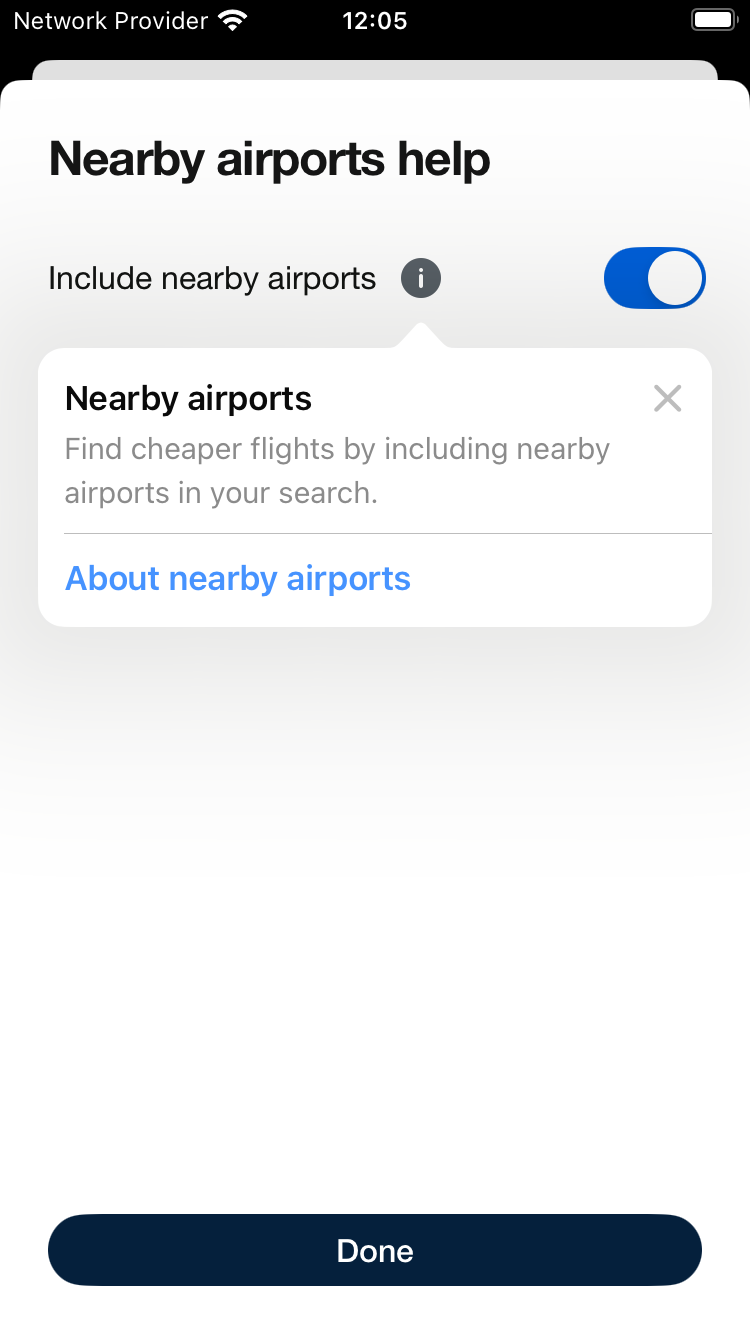
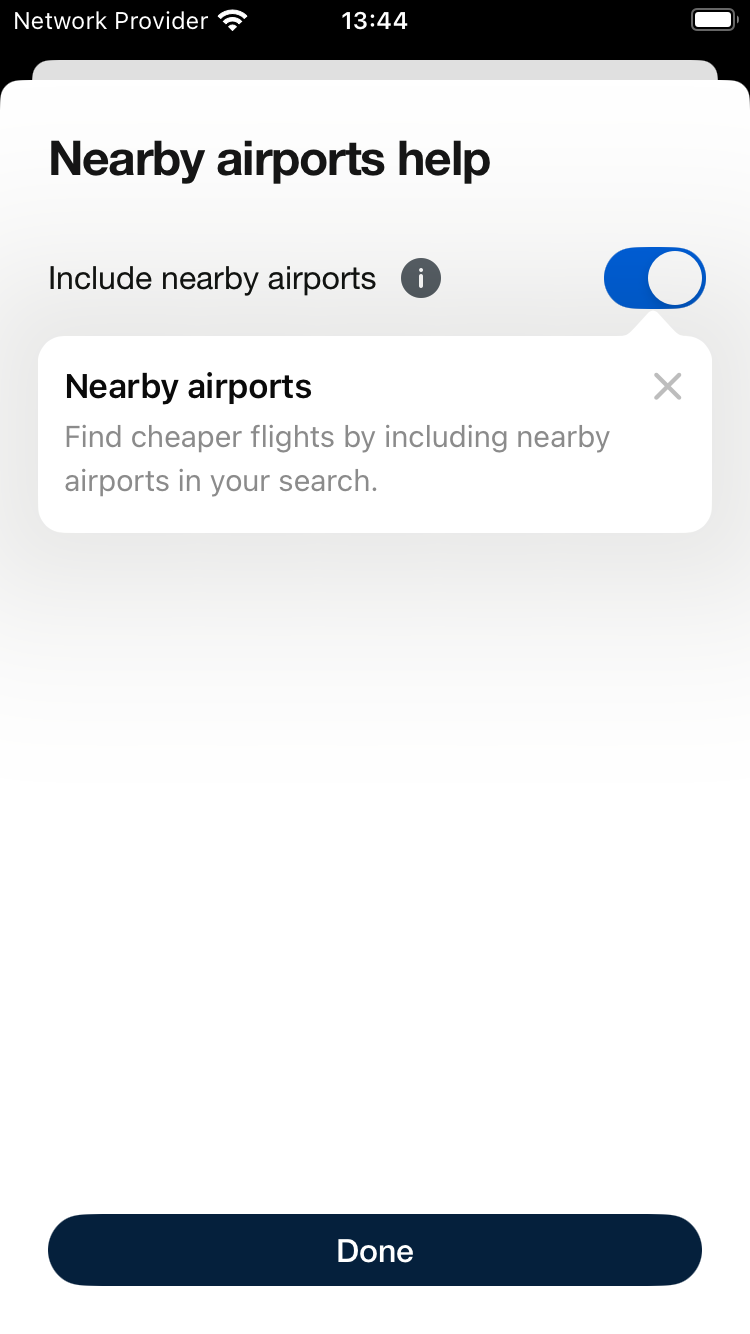
DON-4084 Simplify native introduction and anchor it to the switch

Changed region(s): [[0.092, 0.2766, 0.828, 0.461], [0.46, 0.0, 0.552, 0.0307], [0.8587, 0.2766, 0.92, 0.3073]]

diff --git a/Backpack-SwiftUI/Switch/Classes/BPKSwitchExperimentalTooltip.swift b/Backpack-SwiftUI/Switch/Classes/BPKSwitchExperimentalTooltip.swift
@@ -27,7 +27,7 @@ public struct BPKSwitchExperimentalInformation {
     public let title: String
     /// Localised explanation used by both presentations.
     public let message: String
-    /// Localised label for the information button and native tip action.
+    /// Localised accessibility label for the persistent information button.
     public let informationAccessibilityLabel: String
     /// Localised label for closing the bottom sheet.
     public let dismissAccessibilityLabel: String
@@ -63,30 +63,13 @@ public struct BPKSwitchExperimentalTooltip {
 
 struct BPKSwitchInformationButton: View {
     let configuration: BPKSwitchExperimentalInformation
-    let tooltip: BPKSwitchExperimentalTooltip?
     let style: BPKSwitchStyle
     let onSelect: () -> Void
 
     var body: some View {
-        if #available(iOS 17.0, *), let tooltip {
-            let tip = BPKSwitchInformationTip(id: tooltip.id, information: configuration)
-            button(action: {
-                tip.invalidate(reason: .actionPerformed)
-                onSelect()
-            })
-            .popoverTip(tip, arrowEdge: .top) { _ in
-                tip.invalidate(reason: .actionPerformed)
-                onSelect()
-            }
-        } else {
-            button(action: onSelect)
-        }
-    }
-
-    private func button(action: @escaping () -> Void) -> some View {
         // BPKButton's link style fixes its icon colour; this neutral trigger uses the native button.
         // swiftlint:disable:next bpk_button
-        Button(action: action) {
+        Button(action: onSelect) {
             BPKIconView(.informationCircle, size: .large)
                 .frame(
                     width: BPKSpacing.xxl.value + BPKSpacing.sm.value,
@@ -101,6 +84,21 @@ struct BPKSwitchInformationButton: View {
     }
 }
 
+struct BPKSwitchNativeIntroduction: ViewModifier {
+    let information: BPKSwitchExperimentalInformation
+    let tooltip: BPKSwitchExperimentalTooltip?
+
+    func body(content: Content) -> some View {
+        if #available(iOS 17.0, *), let tooltip {
+            content.popoverTip(
+                BPKSwitchInformationTip(id: tooltip.id, information: information), arrowEdge: .top
+            )
+        } else {
+            content
+        }
+    }
+}
+
 @available(iOS 17.0, *)
 private struct BPKSwitchInformationTip: Tip {
     let id: String
@@ -111,5 +109,4 @@ private struct BPKSwitchInformationTip: Tip {
     // swiftlint:disable:next bpk_text
     var message: Text? { Text(information.message) }
     var options: [any TipOption] { [Tips.MaxDisplayCount(1)] }
-    var actions: [Action] { [Action(id: "information", title: information.informationAccessibilityLabel)] }
 }

diff --git a/Example/Backpack NativeUITests/SwitchTooltipUITest.swift b/Example/Backpack NativeUITests/SwitchTooltipUITest.swift
@@ -72,6 +72,9 @@ final class SwitchTooltipUITest: BackpackUITestCase {
         robot.capture("nearby-help-native-introduction")
         XCTAssertTrue(tipAppeared)
         XCTAssertTrue(robot.information.exists)
+        let extraInformationActions = app.buttons.matching(NSPredicate(format: "label == 'About nearby airports'"))
+            .allElementsBoundByIndex.filter { $0.identifier != "BPKSwitch.Information" }
+        XCTAssertTrue(extraInformationActions.isEmpty, "The introduction has no extra action button.")
 
         // When: Apple's close button dismisses the once-only introduction.
         let close = app.buttons.matching(NSPredicate(format: "label == 'Close' OR label == 'Dismiss'")).firstMatch
@@ -94,33 +97,6 @@ final class SwitchTooltipUITest: BackpackUITestCase {
         XCTAssertFalse(tipMessage.waitForExistence(timeout: 2))
         robot.information.tap()
         XCTAssertTrue(robot.message.waitForExistence(timeout: 5))
-    }
-
-    @MainActor
-    func test_givenNativeIntroduction_whenSelectingInformationAction_thenOpensSameSheet() {
-        // Given
-        launch(reset: true)
-        let robot = SwitchTooltipRobot(app: app)
-        robot.navigate()
-        app.switches["SwitchExample.NativeTooltipEnabled"].tap()
-        robot.open()
-        XCTAssertTrue(app.staticTexts[SwitchTooltipRobot.copy].firstMatch.waitForExistence(timeout: 8))
-        let value = robot.control.value as? String
-
-        // When: use the action inside Apple's native tip, rather than a background tap.
-        let action = app.buttons.matching(NSPredicate(format: "label == 'About nearby airports'"))
-            .allElementsBoundByIndex
-            .first { $0.identifier != "BPKSwitch.Information" }
-        XCTAssertNotNil(action)
-        action?.tap()
-
-        // Then
-        XCTAssertTrue(robot.message.waitForExistence(timeout: 5))
-        XCTAssertEqual(robot.message.label, SwitchTooltipRobot.copy)
-        robot.capture("nearby-help-sheet-from-native-tip")
-        robot.dismiss()
-        robot.waitForHelpToDisappear()
-        XCTAssertEqual(robot.control.value as? String, value)
     }
 
     @MainActor

diff --git a/Backpack-SwiftUI/Switch/Classes/BPKSwitch.swift b/Backpack-SwiftUI/Switch/Classes/BPKSwitch.swift
@@ -142,12 +142,15 @@ public struct BPKSwitch<Content: View>: View {
             }
             BPKSwitchInformationButton(
                 configuration: configuration,
-                tooltip: informationIsPresented ? nil : tooltipConfiguration,
                 style: style,
                 onSelect: { informationIsPresented = true }
             )
             Spacer(minLength: BPKSpacing.sm.value)
             switchControl.labelsHidden().fixedSize()
+                .modifier(BPKSwitchNativeIntroduction(
+                    information: configuration,
+                    tooltip: informationIsPresented ? nil : tooltipConfiguration
+                ))
         }
         .frame(minHeight: BPKSpacing.xxl.value + BPKSpacing.sm.value)
         .bpkBottomSheet(

diff --git a/Example/SwitchInformation/README.md b/Example/SwitchInformation/README.md
@@ -1,6 +1,6 @@
 # Nearby Airports information — DON-4084
 
-The switch keeps a neutral information button on every visit. It opens a Backpack bottom sheet. A separate configuration enables an automatic native Apple TipKit introduction, using the same heading and message. The native tip also offers an action to open the bottom sheet.
+The switch keeps a neutral information button on every visit. It opens a Backpack bottom sheet. A separate configuration enables an automatic native Apple TipKit introduction, using the same heading and message. The native tip points to the switch control and contains only the title, message and Apple's dismiss control. The information button independently opens the bottom sheet on every visit.
 
 The switch remains a standard on/off switch. The radio-row proposal is no longer part of this design.
 
@@ -8,7 +8,7 @@ The switch remains a standard on/off switch. The radio-row proposal is no longer
 
 Open **Switches → SwiftUI → Open experimental switch**. The information button works with **Enable native introduction** off. Enable that separate option to assess the native tip. Apple owns its eligibility and display history; one stable ID shares one introduction across related selectors. The Example-only `SWITCH_INFORMATION_RESET` launch argument resets the test store before TipKit setup.
 
-The consuming app configures TipKit once at launch. Only the introduction requires iOS 17; the button and bottom sheet remain available on Backpack's earlier supported versions. No iOS 26-only API is used. On iOS 17–18, native tips consume the first outside tap to dismiss; use the tip's information action or the persistent button after dismissal to open help.
+The consuming app configures TipKit once at launch. Only the introduction requires iOS 17; the button and bottom sheet remain available on Backpack's earlier supported versions. No iOS 26-only API is used. Native tips can consume the first outside tap to dismiss; the persistent information button remains available afterwards.
 
 At accessibility text sizes the sheet title moves into its scrollable content, keeping it separate from the close control. The sheet expands to full height when scrolling.
 
@@ -31,6 +31,6 @@ Largest text, after expanding the sheet:
 ## Validation
 
 - All 15 Switch tests passed on the repository CI simulator: iPhone SE third generation, iOS 18.5, arm64. Existing references are unchanged; new information references cover light, dark, RTL and larger text.
-- Four native UI scenarios passed on both iOS 18.5 (SE third generation) and iOS 26.2 (iPhone 12 mini), with normal animations. They cover independent repeatable help, preserved switch values and content frames, the native tip action, persisted dismissal after relaunch, dark mode and the largest accessibility text size.
+- All three native UI scenarios passed on both iOS 18.5 (SE third generation) and iOS 26.2 (iPhone 12 mini), with normal animations. They cover repeatable help, preserved switch values and content frames, an introduction without an extra action button, persisted dismissal after relaunch, dark mode and the largest accessibility text size.
 - The 44-point touch-target check allows only 0.001 point for simulator coordinate rounding; the actual control remains 44 points.
 - VoiceOver navigation and iPad have not been manually assessed.

diff --git a/Backpack-SwiftUI/Switch/README.md b/Backpack-SwiftUI/Switch/README.md
@@ -122,7 +122,7 @@ Always verify separately composed labels with VoiceOver.
 
 `experimentalInformation(_:tooltip:)` adds a persistent grey information button immediately after the label, before the native switch. It retains a 44-point touch target. Tapping it opens a Backpack bottom sheet; closing or reopening help never changes the switch value. The sheet supports scrolling and expansion for larger text.
 
-The optional tooltip configuration enables a native Apple TipKit introduction on iOS 17+. It shares the bottom sheet's title and message. Configure TipKit once in the application, and give related screens the same stable tip ID to share one introduction. `Tips.MaxDisplayCount(1)` limits the automatic introduction; the information button remains available afterwards. On iOS 16, the information button and bottom sheet work normally and the native introduction is unavailable.
+The optional tooltip configuration enables a native Apple TipKit introduction on iOS 17+, anchored to the switch control. It contains the same title and message as the bottom sheet, with Apple's dismiss control and no extra action button. Configure TipKit once in the application, and give related screens the same stable tip ID to share one introduction. `Tips.MaxDisplayCount(1)` limits the automatic introduction; the information button remains available afterwards. On iOS 16, the information button and bottom sheet work normally and the native introduction is unavailable.
 
 ```swift
 // At application startup, once:
@@ -139,6 +139,14 @@ BPKSwitch(isOn: $isOn, text: localisedTitle, truncate: false)
 
 Passing `nil` information preserves the standard switch, even if a tooltip configuration is supplied. Passing `nil` for `tooltip` disables only the introduction, preserving the information button and bottom sheet. Consumers own feature eligibility, configuration, localised copy and TipKit setup. The component does not reset Apple's datastore or add separate persistent history.
 
-The native tip includes an information action that opens the same sheet. On iOS 17–18, tapping outside a native tip first dismisses it; the persistent button can then open help. No iOS 26-only TipKit API or custom tooltip overlay is used. The Example app's **Switches → SwiftUI → Open experimental switch** demonstrates both configurations; enable **Enable native introduction** to assess TipKit.
+The persistent information button independently opens the bottom sheet on every visit. Tapping outside a native tip can first dismiss it; the information button remains available afterwards. No iOS 26-only TipKit API or custom tooltip overlay is used. The Example app's **Switches → SwiftUI → Open experimental switch** demonstrates both configurations; enable **Enable native introduction** to assess TipKit.
+
+To emphasize one switch without changing other instances, use the existing custom-label initializer and Backpack's semibold label token:
+
+```swift
+BPKSwitch(isOn: $isOn) {
+    BPKText(localisedTitle, style: .label1).lineLimit(nil)
+}
+```
 
 [Example and native captures](../../Example/SwitchInformation/README.md).
